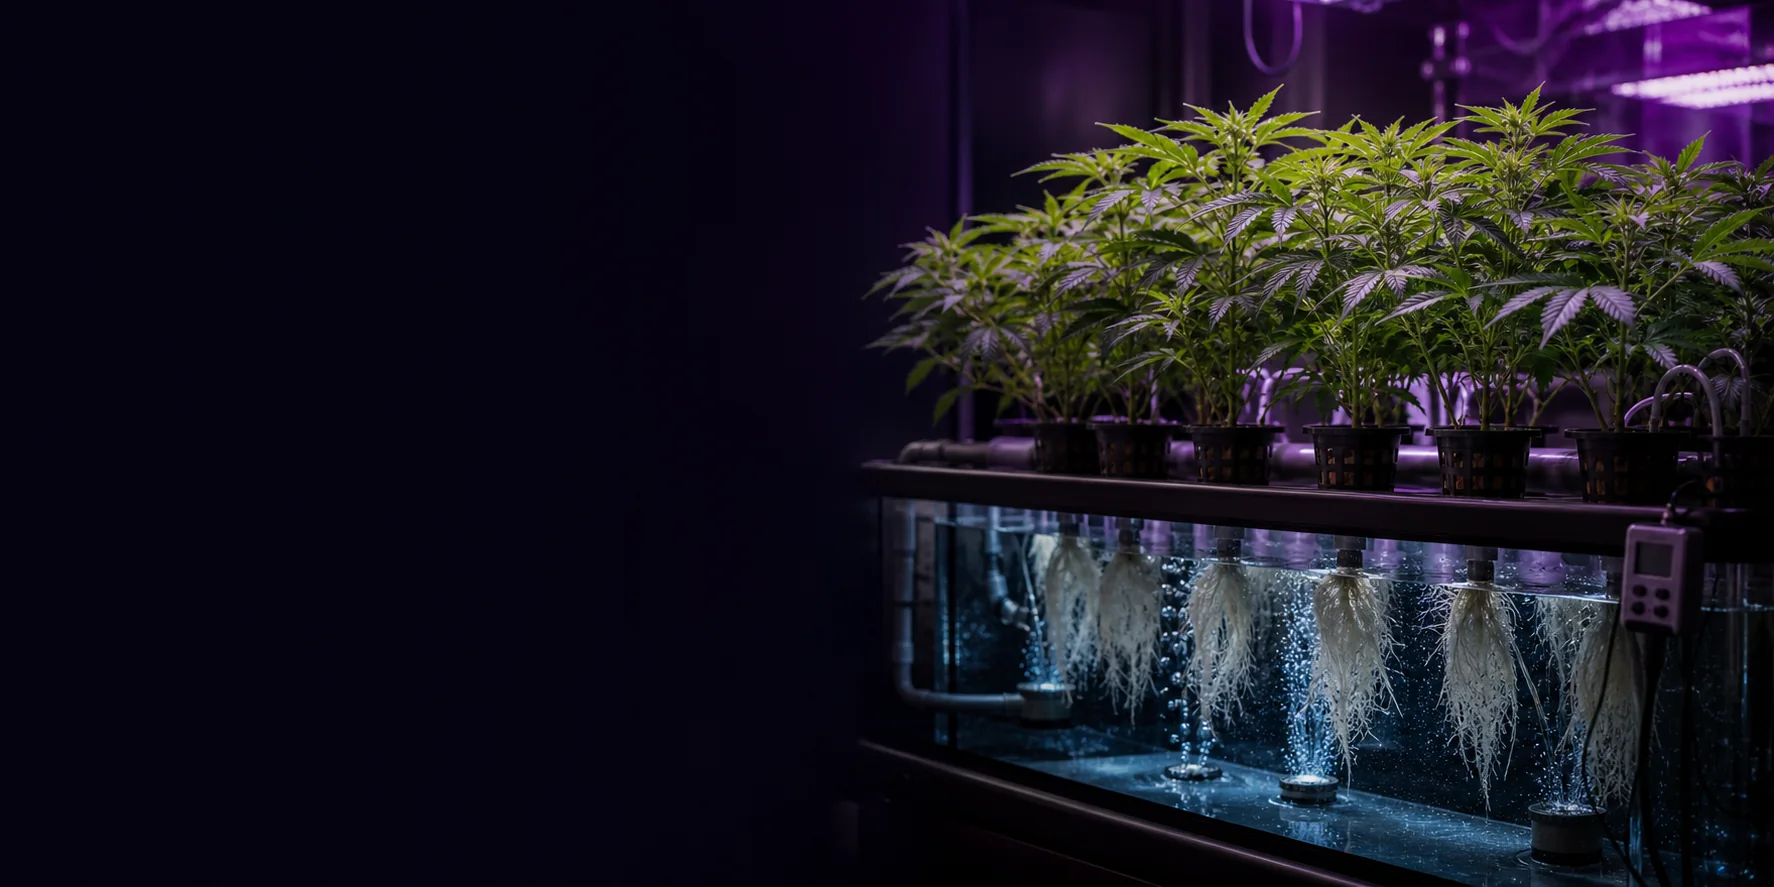
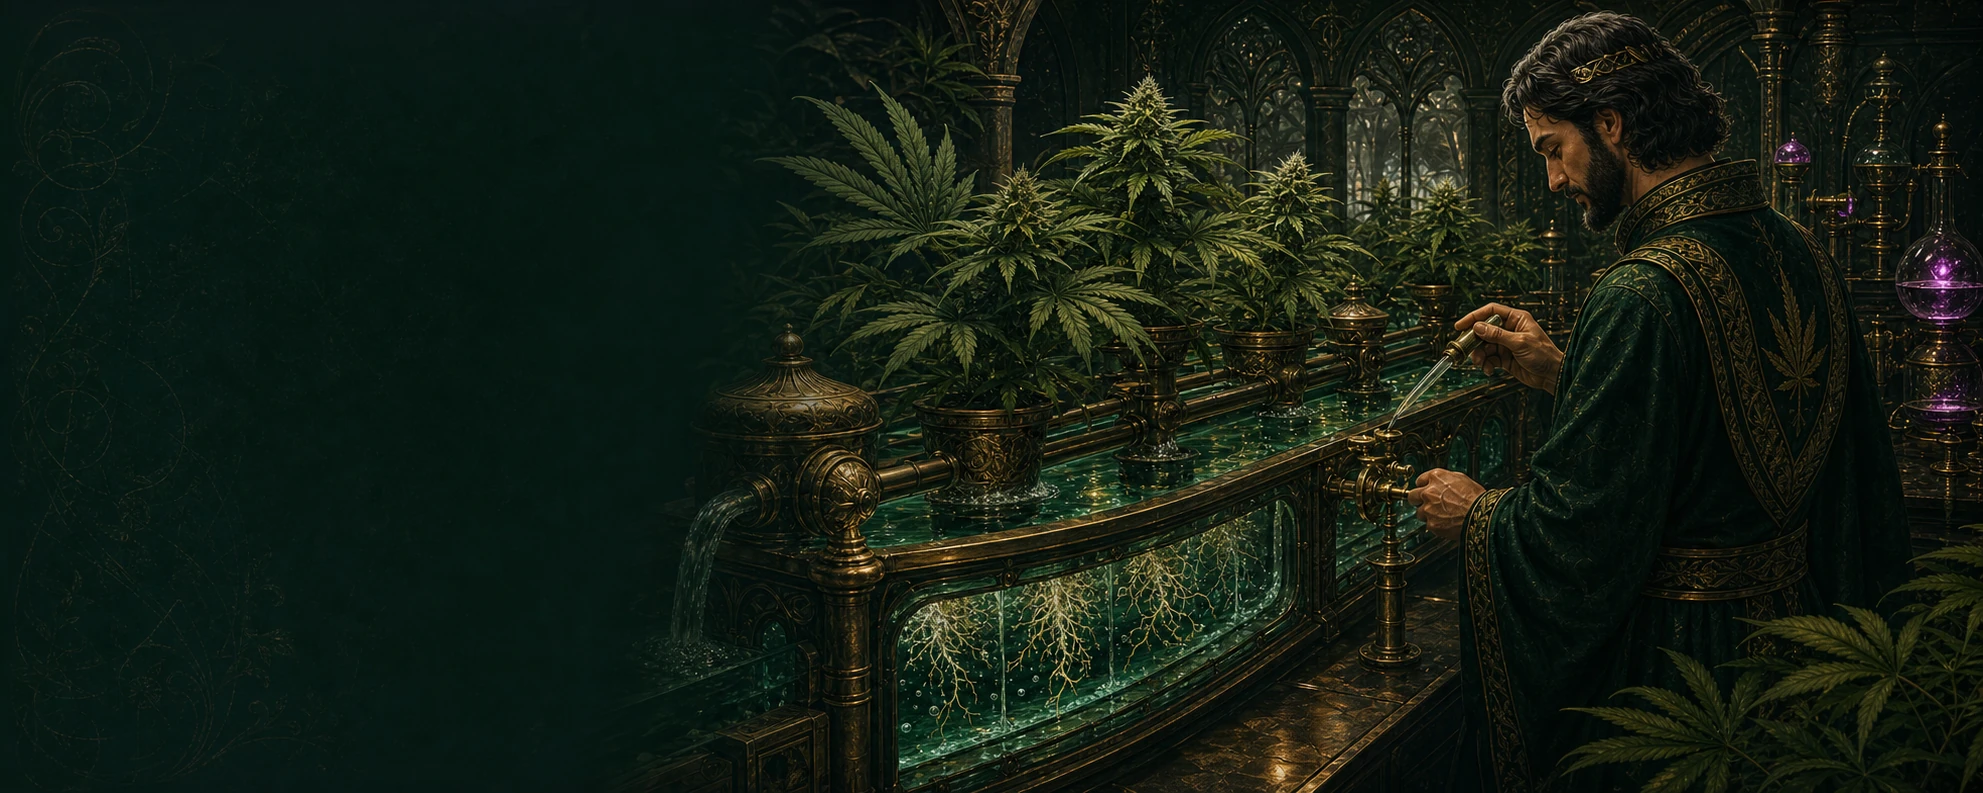
feat: renueva la seccion de hidroponia imperial

diff --git a/src/pages/Home.tsx b/src/pages/Home.tsx
@@ -3,7 +3,7 @@ import { Link, useNavigate } from 'react-router-dom';
 import { dbService, Product, Kit } from '../services/db';
 import { useCart } from '../context/CartContext';
 import { useToast } from '../context/ToastContext';
-import { ArrowRight, HelpCircle, ShieldCheck, Flame, Info, Leaf, Plus, Droplets, Wind, Sparkles } from 'lucide-react';
+import { ArrowRight, HelpCircle, ShieldCheck, Flame, Info, Leaf, Plus, Wind, Sparkles } from 'lucide-react';
 import { getProductImage } from './Shop';
 
 const CATEGORIES = [
@@ -288,7 +288,7 @@ export const Home: React.FC = () => {
       {/* 5. SECCIÓN DESTACADA: HIDROPONÍA */}
       <section className="container">
         <div className="glass-card violet home-hydro-banner">
-          <div style={{ display: 'flex', flexDirection: 'column', gap: '20px' }}>
+          <div style={{ display: 'flex', flexDirection: 'column', gap: '20px', maxWidth: '820px', position: 'relative', zIndex: 1 }}>
             <span className="badge badge-violet" style={{ alignSelf: 'flex-start' }}>🧪 SECCIÓN ESPECIALIZADA</span>
             <h2 style={{ fontSize: '2.5rem', fontFamily: 'var(--font-title)', fontWeight: 800 }}>
               Hidroponía: Cultivá en Agua con Precisión
@@ -309,15 +309,6 @@ export const Home: React.FC = () => {
               >
                 Consultar Técnico en Hidro
               </a>
-            </div>
-          </div>
-          <div style={{ display: 'flex', justifyContent: 'center' }}>
-            {/* Visual hydro element */}
-            <div style={{ backgroundColor: 'rgba(0,0,0,0.4)', border: '1px solid rgba(142, 36, 170, 0.2)', padding: '24px', borderRadius: 'var(--radius-md)', textAlign: 'center', width: '100%', maxWidth: '280px' }}>
-              <Droplets size={40} style={{ color: '#e040fb', marginBottom: '12px' }} />
-              <div style={{ fontSize: '1.2rem', fontFamily: 'var(--font-title)', fontWeight: 600, marginBottom: '6px' }}>¿Empezando en Hidro?</div>
-              <p style={{ fontSize: '0.8rem', color: 'var(--text-secondary)', marginBottom: '16px' }}>Resolvé nuestro cuestionario inteligente y te armamos la configuración ideal.</p>
-              <Link to="/hidroponia" className="btn btn-violet" style={{ padding: '8px 16px', fontSize: '0.8rem', width: '100%' }}>Resolver Cuestionario</Link>
             </div>
           </div>
         </div>
